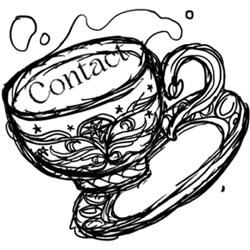
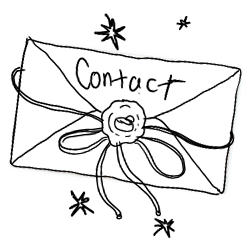
- Se actualiza versión de bootstrap - Se agrega pantalla de contacto - Se actualizan assets.

diff --git a/src/css/contact.scss b/src/css/contact.scss
@@ -1,0 +1,37 @@
+.contact {
+    .flex-column {
+        max-height: 100%;
+    }
+
+    .title {
+        width: calc(100vw * .5);
+        max-width: 600px;
+        min-width: 425px;
+    }
+
+    .characters-container{
+        position: absolute;
+        width: 100%;
+        height: 100%;
+        padding: 10px 50px;
+
+        .characters {
+            background-image: url("../assets/images/contact-right-character.png");
+            background-repeat: no-repeat;
+            background-position: center;
+            background-size: contain;
+            width: 100%;
+            height: 100%;
+        }
+    }
+
+    .link-button {
+        display: inline-block;
+        transform: scale(0.95);
+        transition: all 0.5s cubic-bezier(0.18, 0.89, 0.32, 1.28);
+
+        &:hover {
+            transform: scale(1)
+        }
+    }
+}

diff --git a/src/js/app.js b/src/js/app.js
@@ -3,13 +3,15 @@ import barba from '@barba/core';
 import Home from './pages/home';
 import Gallery from './pages/gallery';
 import Art from './pages/art';
+import Contact from './pages/contact';
 import DefaultTransition from './transitions/defaultTransition';
 
 barba.init({
 	views: [
 		Home,
         Gallery,
-        Art
+        Art,
+        Contact
     ],
     transitions: [DefaultTransition]
 });

diff --git a/webpack.config.js b/webpack.config.js
@@ -119,7 +119,7 @@ module.exports = (env, argv) => ({
             dry: argv.mode === 'development'
         }),
 
-        ...['index', 'gallery', 'art'].map(fileName =>
+        ...['index', 'gallery', 'art', 'contact'].map(fileName =>
         new HtmlWebpackPlugin({
             minify: argv.mode !== 'development',
             filename: `${fileName}.html`,

diff --git a/src/js/pages/home.js b/src/js/pages/home.js
@@ -1,10 +1,5 @@
 class Home {
     namespace = 'home';
-
-    // beforeEnter = data => {
-	// 	console.log(data);
-	// 	console.log("Esta es la home");
-	// };
 }
 
 export default new Home();

diff --git a/src/css/layout.scss b/src/css/layout.scss
@@ -19,7 +19,8 @@ body {
 .container {
     height: 100vh;
     overflow: hidden;
-    padding: 5px;
+    padding-top: 5px;
+    padding-bottom: 5px;
 }
 
 .background {

diff --git a/src/css/app.scss b/src/css/app.scss
@@ -3,3 +3,4 @@
 @import "home.scss";
 @import "gallery.scss";
 @import "art.scss";
+@import "contact.scss";

diff --git a/src/js/pages/contact.js b/src/js/pages/contact.js
@@ -1,0 +1,5 @@
+class Contact {
+    namespace = 'contact';
+}
+
+export default new Contact();
